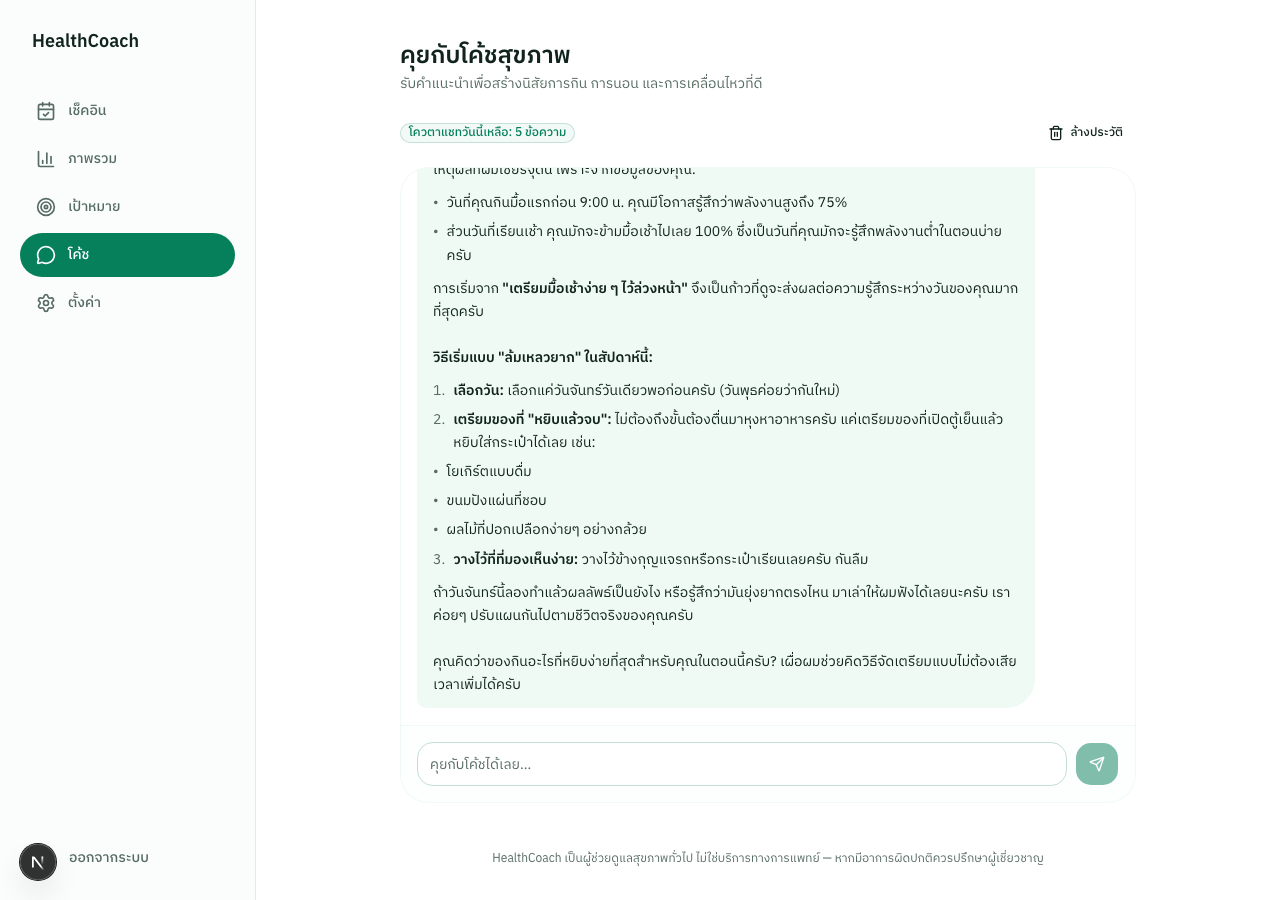
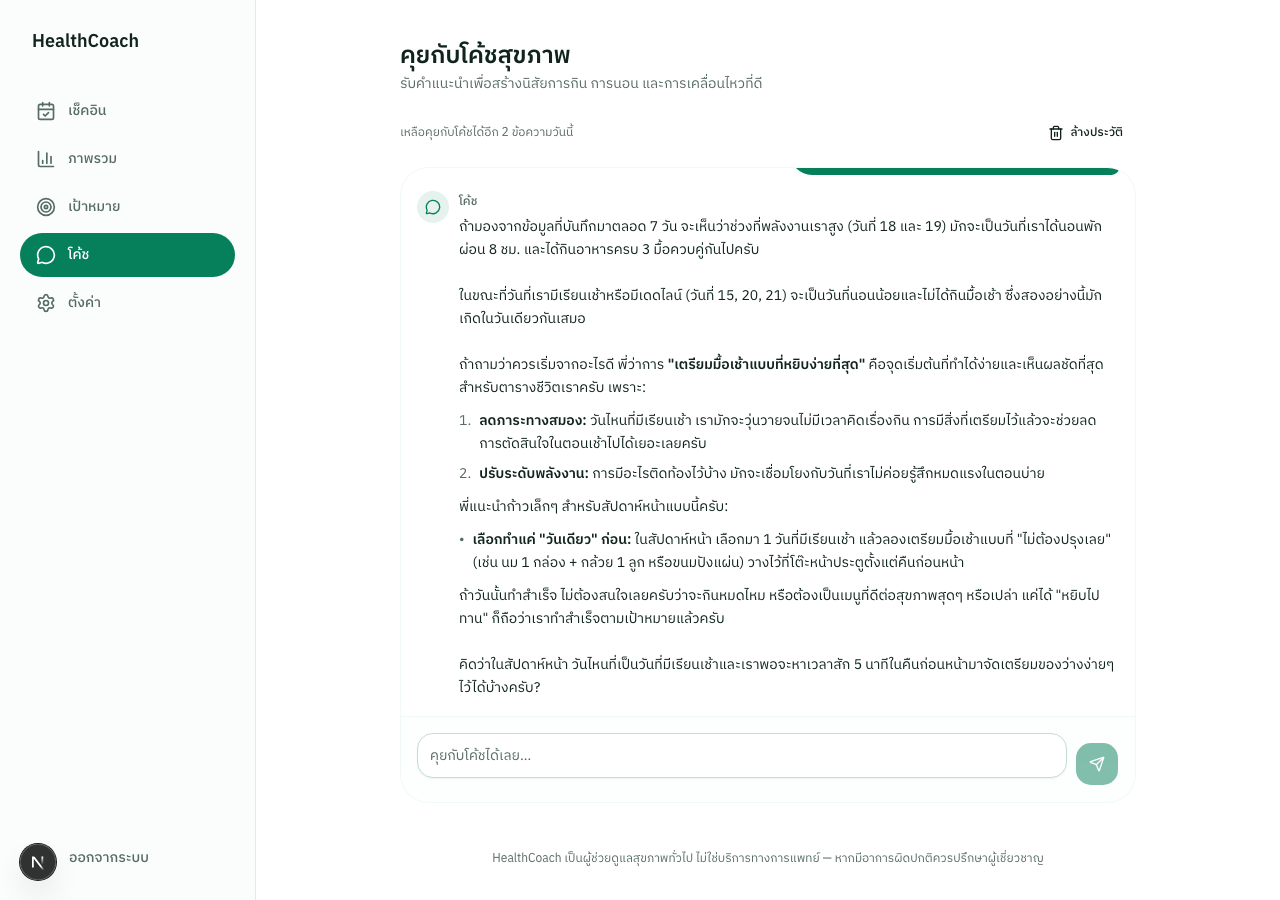
feat(coach): polish the chat surface across eight UX gaps
Reworks the conversation to read like a coach talking, not a chatbot:

- Coach replies now carry an avatar and a 'โค้ช' label, left-aligned
  with no bubble, so the persona the brief centres on is visible rather
  than an anonymous tinted block. User messages stay a green bubble on
  the right, which sharpens the speaker rhythm.
- Running out of the daily message allowance was styled as a red error;
  it is a normal limit, so it is now a warm muted notice with a moon
  icon. The remaining-quota badge no longer sits on screen as a
  countdown — it appears only at two or fewer left. Both follow the
  brief's no-pressure rule and the app's red-for-errors-only rule.
- The single-line input becomes an auto-growing textarea: Enter sends,
  Shift+Enter breaks, so telling the coach about your day no longer
  scrolls out of a one-line field.
- The opener's quick replies sat orphaned by the input; they now sit
  under the coach's opening question where they answer it.
- The pending state reuses the coach avatar so the wait reads as the
  coach thinking, and the mount auto-scroll no longer clips the top of
  the opener.

diff --git a/src/components/coach/chat-client.tsx b/src/components/coach/chat-client.tsx
@@ -1,10 +1,9 @@
 "use client";
 
 import { useState, useEffect, useRef, useTransition } from "react";
-import { Trash2, Send, RefreshCw, MessageSquare, Loader2 } from "lucide-react";
+import { Trash2, Send, RefreshCw, MessageSquare, MessageCircle, Loader2 } from "lucide-react";
 import { Button } from "@/components/ui/button";
 import { Input } from "@/components/ui/input";
-import { Badge } from "@/components/ui/badge";
 import { UserMessage, CoachMessage, PendingReply, QuotaReachedNotice } from "./message-variants";
 import { sendCoachMessage, retryCoachReply, clearChatHistory } from "@/lib/chat/actions";
 import type { CoachOpener } from "@/lib/chat/opener";
@@ -54,8 +53,21 @@ export function CoachChatClient({
 
   // Scroll ref
   const messagesEndRef = useRef<HTMLDivElement>(null);
+  const textareaRef = useRef<HTMLTextAreaElement>(null);
 
   const tempIdRef = useRef(0);
+
+  const resizeTextarea = () => {
+    const el = textareaRef.current;
+    if (!el) return;
+    el.style.height = "auto";
+    el.style.height = `${Math.min(el.scrollHeight, 128)}px`;
+  };
+
+  const handleInputChange = (e: React.ChangeEvent<HTMLTextAreaElement>) => {
+    setInputValue(e.target.value);
+    resizeTextarea();
+  };
 
   // Clear history double-confirm state
   const [confirmClear, setConfirmClear] = useState(false);
@@ -82,11 +94,11 @@ export function CoachChatClient({
   };
 
   useEffect(() => {
-    scrollToBottom("instant");
+    if (messages.length > 0) scrollToBottom("instant");
   }, []);
 
   useEffect(() => {
-    scrollToBottom("smooth");
+    if (messages.length > 0 || guidedFlow) scrollToBottom("smooth");
   }, [messages, isPending, guidedStep, guidedFlow]);
 
   // Generate guided flow message list for rendering
@@ -216,6 +228,7 @@ export function CoachChatClient({
 
     setMessages((prev) => [...prev, tempUserMessage]);
     setInputValue("");
+    requestAnimationFrame(resizeTextarea);
     setQuotaLeft((prev) => Math.max(0, prev - 1));
 
     startTransition(async () => {
@@ -386,17 +399,21 @@ export function CoachChatClient({
     return () => clearTimeout(timer);
   }, [confirmClear]);
 
-  const showChips = messages.length === 0 && !isPending && quotaLeft > 0 && !guidedFlow;
+  const showChips = messages.length === 0 && !isPending && quotaLeft > 0 && !guidedFlow && !opener;
   const showRetry = needsReply(messages) && !isPending && !guidedFlow;
   const displayMessages = guidedFlow ? [...messages, ...getGuidedMessages()] : messages;
 
   return (
-    <div className="flex h-[calc(100dvh-15rem)] min-h-[24rem] flex-col gap-3 lg:h-[calc(100dvh-13rem)]">
+    <div className="flex h-[calc(100dvh-17.5rem)] min-h-[24rem] flex-col gap-3 lg:h-[calc(100dvh-13rem)]">
       {/* Top bar controls */}
-      <div className="flex shrink-0 items-center justify-between">
-        <Badge variant="outline" className="border-primary/20 bg-primary/5 text-primary text-xs">
-          โควตาแชทวันนี้เหลือ: {quotaLeft} ข้อความ
-        </Badge>
+      <div className="flex min-h-9 shrink-0 items-center justify-between">
+        {quotaLeft > 0 && quotaLeft <= 2 ? (
+          <span className="text-xs text-muted-foreground">
+            เหลือคุยกับโค้ชได้อีก {quotaLeft} ข้อความวันนี้
+          </span>
+        ) : (
+          <span />
+        )}
 
         {messages.length > 0 && (
           <Button
@@ -421,17 +438,33 @@ export function CoachChatClient({
         >
           {displayMessages.length === 0 ? (
             opener ? (
-              <div className="flex flex-col space-y-4 p-2">
-                <div className="flex size-9 items-center justify-center rounded-full bg-primary/10 text-primary">
-                  <MessageSquare className="size-4.5" />
+              <div className="flex gap-2.5">
+                <div className="flex size-8 shrink-0 items-center justify-center rounded-full bg-primary/10 text-primary">
+                  <MessageCircle className="size-4" />
                 </div>
-                <div className="space-y-2">
-                  <p className="text-sm leading-relaxed text-muted-foreground">{opener.fact}</p>
-                  <p className="text-lg leading-snug font-medium">{opener.question}</p>
+                <div className="min-w-0 flex-1 space-y-3 pt-0.5">
+                  <p className="text-xs font-medium text-muted-foreground">โค้ช</p>
+                  <div className="space-y-2">
+                    <p className="text-sm text-muted-foreground">{opener.fact}</p>
+                    <p className="text-lg leading-snug font-medium">{opener.question}</p>
+                  </div>
+                  <div className="flex flex-wrap gap-2 pt-1">
+                    {STARTERS.map((starter) => (
+                      <Button
+                        key={starter}
+                        type="button"
+                        variant="outline"
+                        onClick={() => handleSend(starter)}
+                        className="min-h-11 rounded-full px-4 text-sm font-normal"
+                      >
+                        {starter}
+                      </Button>
+                    ))}
+                  </div>
+                  <p className="text-xs text-muted-foreground">
+                    หรือพิมพ์เล่าเรื่องของคุณด้านล่างได้เลย
+                  </p>
                 </div>
-                <p className="text-xs text-muted-foreground">
-                  เล่าให้ฟังได้เลย หรือจะถามเรื่องอื่นก็ได้
-                </p>
               </div>
             ) : (
               <div className="flex flex-col items-center justify-center h-full text-center p-6 space-y-3">
@@ -746,20 +779,27 @@ export function CoachChatClient({
                   e.preventDefault();
                   handleSend(inputValue);
                 }}
-                className="flex items-center gap-2"
+                className="flex items-end gap-2"
               >
                 <div className="relative flex-1">
-                  <Input
-                    type="text"
+                  <textarea
+                    ref={textareaRef}
+                    rows={1}
                     placeholder={quotaLeft > 0 ? "คุยกับโค้ชได้เลย…" : "วันนี้โควตาแชทหมดแล้ว"}
                     value={inputValue}
-                    onChange={(e) => setInputValue(e.target.value)}
+                    onChange={handleInputChange}
+                    onKeyDown={(e) => {
+                      if (e.key === "Enter" && !e.shiftKey) {
+                        e.preventDefault();
+                        handleSend(inputValue);
+                      }
+                    }}
                     disabled={quotaLeft <= 0 || isPending}
                     maxLength={MESSAGE_MAX_LENGTH}
-                    className="w-full min-h-11 bg-background text-sm rounded-lg pr-12 focus-visible:border-ring focus-visible:ring-3"
+                    className="max-h-32 min-h-11 w-full resize-none rounded-lg border border-input bg-background px-3 py-2.5 text-sm break-words shadow-xs transition-[color,box-shadow] outline-none placeholder:text-muted-foreground focus-visible:border-ring focus-visible:ring-3 focus-visible:ring-ring/50 disabled:opacity-50 scrollbar-thin"
                   />
-                  {inputValue.length > 0 && (
-                    <span className="absolute right-3 top-1/2 -translate-y-1/2 text-[10px] text-muted-foreground font-mono">
+                  {inputValue.length > MESSAGE_MAX_LENGTH * 0.8 && (
+                    <span className="absolute right-3 bottom-2.5 font-mono text-[10px] text-muted-foreground">
                       {inputValue.length}/{MESSAGE_MAX_LENGTH}
                     </span>
                   )}
@@ -769,7 +809,7 @@ export function CoachChatClient({
                   type="submit"
                   size="icon"
                   disabled={quotaLeft <= 0 || isPending || !inputValue.trim()}
-                  className="size-11 shrink-0 bg-primary hover:bg-primary/95 text-primary-foreground rounded-lg"
+                  className="size-11 shrink-0 rounded-lg bg-primary text-primary-foreground hover:bg-primary/95"
                   aria-label="ส่งข้อความ"
                 >
                   <Send className="size-4" />

diff --git a/src/components/coach/message-variants.tsx b/src/components/coach/message-variants.tsx
@@ -1,14 +1,23 @@
-import { AlertCircle } from "lucide-react";
-import { Card, CardContent } from "@/components/ui/card";
+import { MessageCircle, Moon } from "lucide-react";
 import type { ChatMessage } from "@/lib/chat/types";
-import { cn } from "@/lib/utils";
 import { FormattedMessage } from "./formatted-message";
+
+function CoachAvatar() {
+  return (
+    <div
+      aria-hidden
+      className="flex size-8 shrink-0 items-center justify-center rounded-full bg-primary/10 text-primary"
+    >
+      <MessageCircle className="size-4" />
+    </div>
+  );
+}
 
 export function UserMessage({ message }: { message: ChatMessage }) {
   return (
     <div className="flex justify-end">
       <div className="max-w-[80%] rounded-2xl rounded-br-sm bg-primary px-4 py-2.5 text-sm text-primary-foreground">
-        <p className="whitespace-pre-wrap break-words">{message.content}</p>
+        <p className="break-words whitespace-pre-wrap">{message.content}</p>
       </div>
     </div>
   );
@@ -16,9 +25,13 @@ export function UserMessage({ message }: { message: ChatMessage }) {
 
 export function CoachMessage({ message }: { message: ChatMessage }) {
   return (
-    <div className="flex justify-start">
-      <div className="max-w-[88%] rounded-2xl rounded-bl-sm bg-muted px-4 py-3 text-sm text-foreground">
-        <FormattedMessage content={message.content} />
+    <div className="flex gap-2.5">
+      <CoachAvatar />
+      <div className="min-w-0 flex-1 pt-0.5">
+        <p className="mb-1 text-xs font-medium text-muted-foreground">โค้ช</p>
+        <div className="text-sm text-foreground">
+          <FormattedMessage content={message.content} />
+        </div>
       </div>
     </div>
   );
@@ -26,23 +39,19 @@ export function CoachMessage({ message }: { message: ChatMessage }) {
 
 export function PendingReply() {
   return (
-    <div className="flex justify-start">
-      <div
-        className={cn(
-          "flex items-center gap-1 rounded-2xl rounded-tl-none px-4 py-3.5 bg-muted text-muted-foreground shadow-sm"
-        )}
-        aria-label="โค้ชกำลังพิมพ์"
-      >
+    <div className="flex gap-2.5" aria-label="โค้ชกำลังคิด">
+      <CoachAvatar />
+      <div className="flex items-center gap-1 pt-2.5">
         <span
-          className="size-2 animate-bounce rounded-full bg-muted-foreground/60"
+          className="size-2 animate-bounce rounded-full bg-muted-foreground/50"
           style={{ animationDelay: "0ms" }}
         />
         <span
-          className="size-2 animate-bounce rounded-full bg-muted-foreground/60"
+          className="size-2 animate-bounce rounded-full bg-muted-foreground/50"
           style={{ animationDelay: "150ms" }}
         />
         <span
-          className="size-2 animate-bounce rounded-full bg-muted-foreground/60"
+          className="size-2 animate-bounce rounded-full bg-muted-foreground/50"
           style={{ animationDelay: "300ms" }}
         />
       </div>
@@ -52,16 +61,14 @@ export function PendingReply() {
 
 export function QuotaReachedNotice() {
   return (
-    <Card className="border-destructive/30 bg-destructive/5 text-destructive">
-      <CardContent className="flex items-start gap-3 p-4">
-        <AlertCircle className="size-5 shrink-0 mt-0.5" />
-        <div className="space-y-1 text-sm text-foreground">
-          <p className="font-semibold text-destructive">คุยครบโควตา 5 ข้อความสำหรับวันนี้แล้ว</p>
-          <p className="text-xs leading-relaxed text-muted-foreground">
-            พรุ่งนี้กลับมาคุยต่อได้นะ ระหว่างนี้คุณยังสามารถเช็คอินและดูข้อมูลย้อนหลังได้ตามปกติ
-          </p>
-        </div>
-      </CardContent>
-    </Card>
+    <div className="flex items-start gap-3 rounded-lg border border-border bg-muted/40 p-3.5">
+      <Moon className="mt-0.5 size-5 shrink-0 text-muted-foreground" />
+      <div className="space-y-1">
+        <p className="text-sm font-medium text-foreground">คุยกับโค้ชครบสำหรับวันนี้แล้ว</p>
+        <p className="text-xs leading-relaxed text-muted-foreground">
+          พรุ่งนี้กลับมาคุยต่อได้เลย ระหว่างนี้ยังเช็คอินและดูข้อมูลย้อนหลังได้ตามปกติ
+        </p>
+      </div>
+    </div>
   );
 }

diff --git a/DESIGN.md b/DESIGN.md
@@ -33,6 +33,8 @@ export default async function MyPage() {
 
 > **ยกเว้น: หน้าแชท** (`/coach`) ไม่ใช้ `<PageContainer>` — แชทเป็นบทสนทนา ไม่ใช่ฟอร์ม · ใช้ `max-w-[46rem]` + ความสูง `calc(100dvh - chrome)` ให้ข้อความเลื่อนในกล่อง input ปักล่าง (โครง 3 ชั้นแบบ LINE/ChatGPT) · ฟอร์มแคบเพราะกรอกง่าย แต่แชทยิ่งแคบยิ่งอึดอัด
 
+**หลักการหน้าแชท** (message-variants.tsx): ข้อความโค้ช = avatar `MessageCircle` + ชื่อ "โค้ช" ชิดซ้าย ไม่มีพื้นฟอง (ตัวตนโค้ชชัด ตามโจทย์ Feature 4) · ข้อความผู้ใช้ = ฟองเขียวชิดขวา · คำตอบโค้ช render markdown ผ่าน `FormattedMessage` (เขียนเอง ไม่มี library ไม่มี raw HTML) · ช่องพิมพ์เป็น textarea โตตามเนื้อหา Enter ส่ง Shift+Enter ขึ้นบรรทัด · **โควตาหมด = โทน muted อบอุ่น ไม่ใช่ destructive** (โจทย์ข้อ 8 ห้ามกดดัน) · ป้ายโควตาโชว์เฉพาะเมื่อเหลือ ≤ 2
+
 **3. Breakpoint ที่ใช้จริงมีตัวเดียว: `lg` (1024px)**
 
 | | < 1024px | ≥ 1024px |